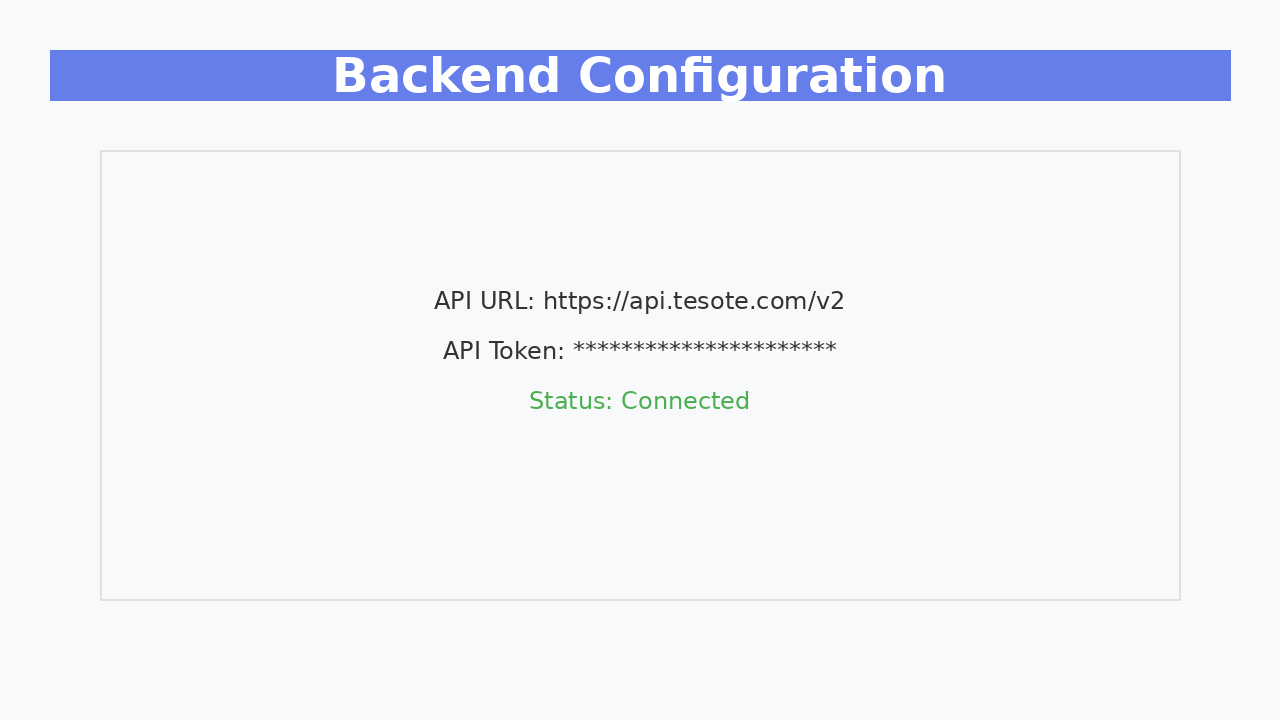
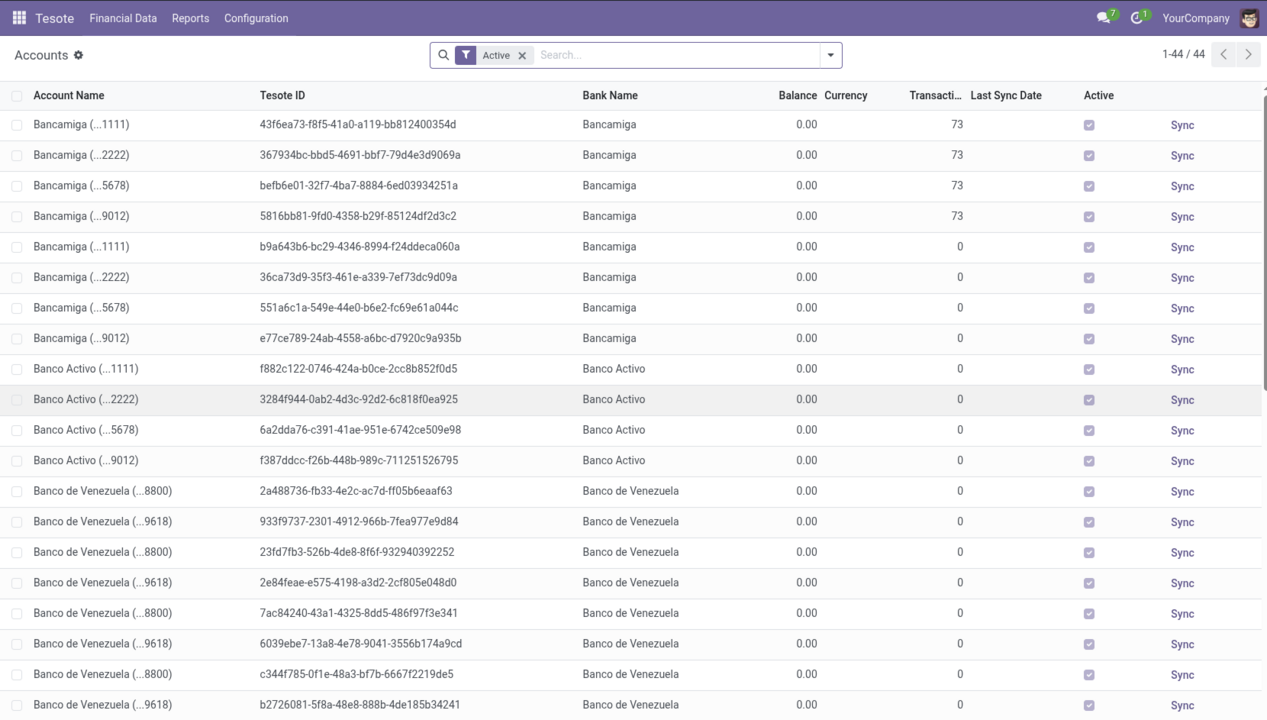
updates

diff --git a/tesote_connector/__manifest__.py b/tesote_connector/__manifest__.py
@@ -60,6 +60,9 @@ Technical Highlights:
     "installable": True,
     "application": True,
     "auto_install": False,
-    "development_status": "Beta",
+    "development_status": "Production/Stable",
+    "maintainers": ["tesote"],
+    "price": 0.00,
+    "currency": "EUR",
     "support": "support-odoo@tesote.com",
 }
